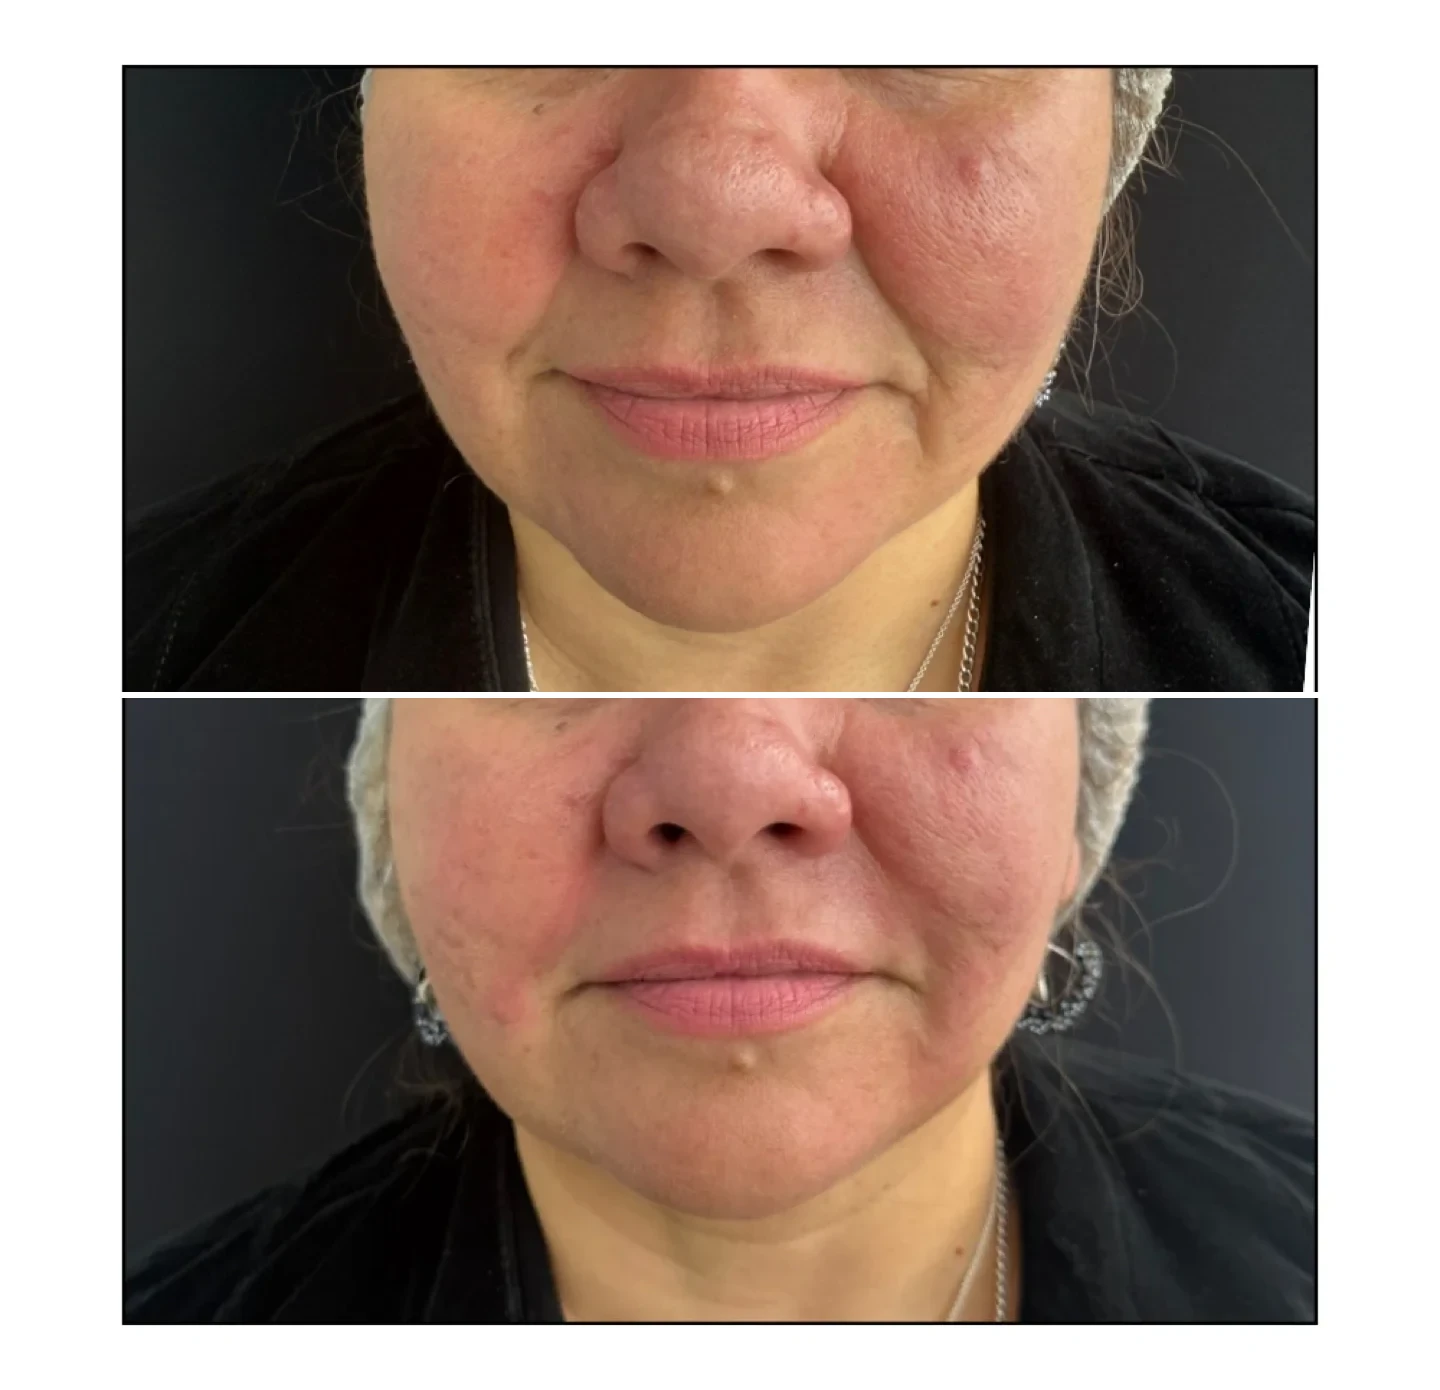
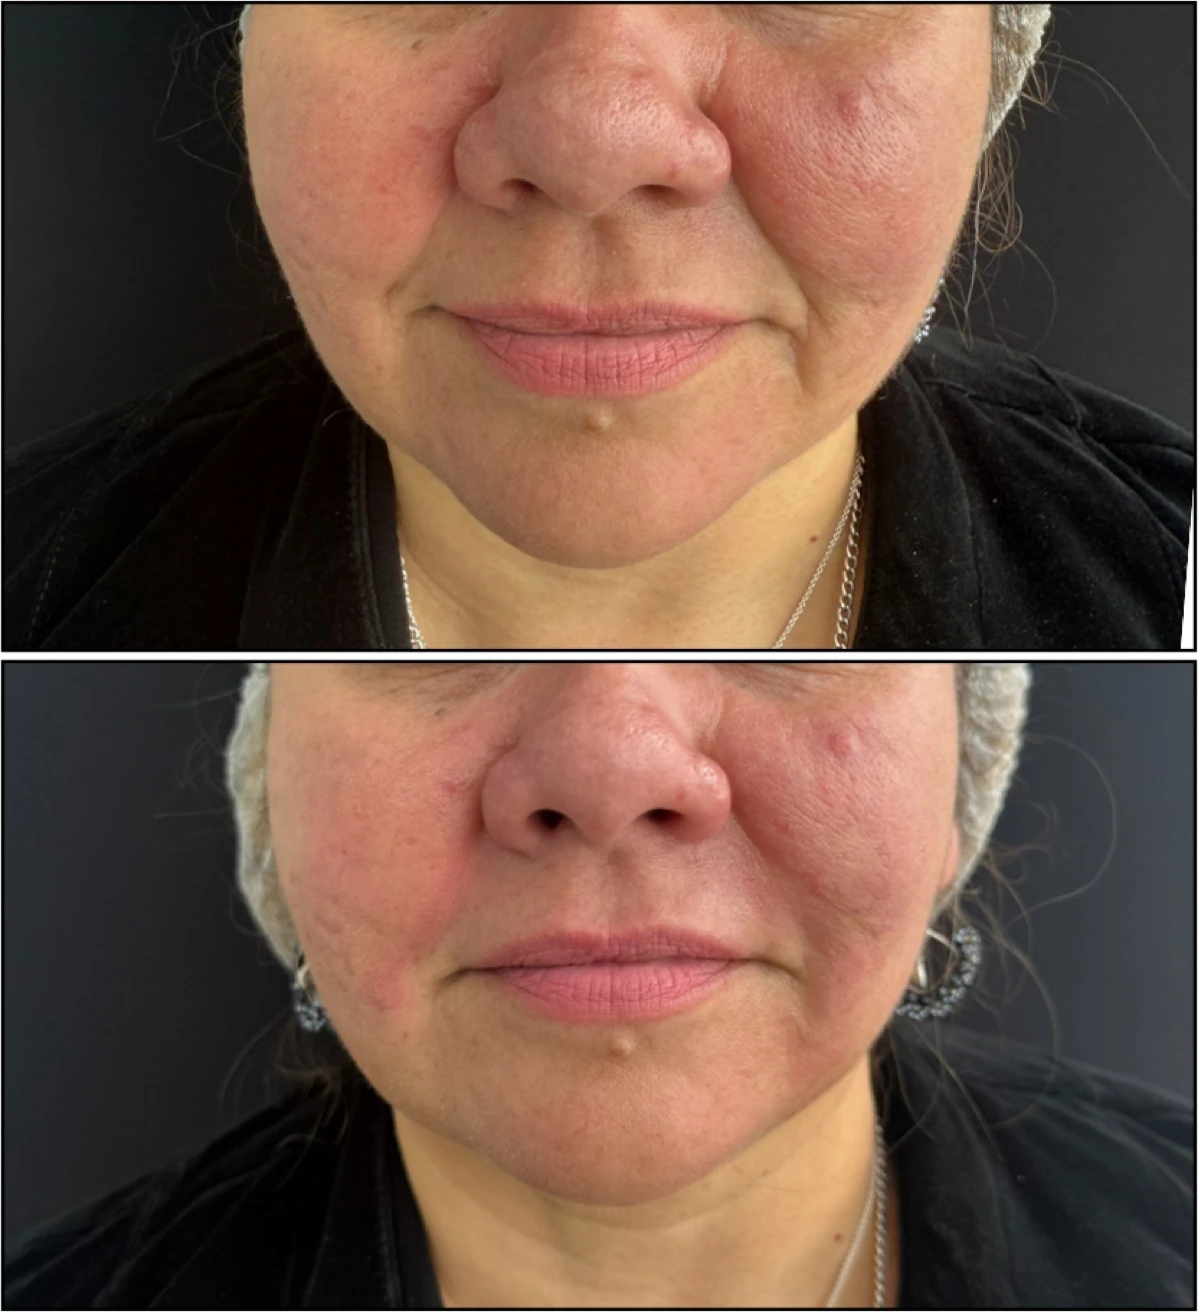
Usar las fotos originales tal cual, no una versión recompuesta
Reemplaza las 6 imágenes combinadas (generadas con PIL asumiendo
apilado) por los archivos originales que Rodolfo subió, cada uno con
su layout real (apilado o lado a lado según venía). Mismo criterio
aplicado también a la caja del inicio, que ahora usa directamente los
archivos -combo.webp en vez de armar el apilado a mano con JS.

diff --git a/js/hero-before-after.js b/js/hero-before-after.js
@@ -5,25 +5,26 @@
  * es solo variedad visual, NO afirma que la foto corresponda a la
  * persona del testimonio que se ve en pantalla en ese momento.
  *
- * A pedido de Rodolfo (2026-09-22): sin slider de arrastre, antes
- * arriba y después abajo (igual que vienen las fotos originales, no
- * lado a lado), y con un tamaño fijo para la caja completa — si no,
- * la sección salta de alto en cada rotación porque las 6 parejas
- * tienen proporciones distintas (mala UX). El encuadre fijo se logra
- * con CSS (object-fit: cover vía la clase .hero-ba-half en
- * costaserena-theme.css), no recortando el archivo — mismo criterio
- * que el resto del sitio. Cada mitad abre el visor (Magnific Popup,
- * vía la clase .zoom-gallery del contenedor padre en index.html) al
- * hacer click, mostrando la foto completa sin ese recorte.
+ * A pedido de Rodolfo (2026-09-22): sin slider de arrastre, usando la
+ * foto tal cual la subió (archivo `-combo.webp`, antes+después ya
+ * juntos en el mismo archivo original — apilados o lado a lado según
+ * venía cada una, sin volver a diagramarla), y con un tamaño fijo
+ * para la caja completa — si no, la sección salta de alto en cada
+ * rotación porque las 6 parejas tienen proporciones distintas (mala
+ * UX). El encuadre fijo se logra con CSS (object-fit: cover vía la
+ * clase .hero-ba-combo en costaserena-theme.css), no recortando el
+ * archivo. El click abre el visor (Magnific Popup, vía la clase
+ * .zoom-gallery del contenedor padre en index.html) mostrando la
+ * foto completa sin ese recorte.
  */
 (function () {
     var PARES = [
-        { antes: "images/real/antes-despues-entrecejo-antes.webp", despues: "images/real/antes-despues-entrecejo-despues.webp", alt: "Antienvejecimiento" },
-        { antes: "images/real/antes-despues-mandibula-antes.webp", despues: "images/real/antes-despues-mandibula-despues.webp", alt: "Ácido Hialurónico" },
-        { antes: "images/real/antes-despues-ojeras-antes.webp", despues: "images/real/antes-despues-ojeras-despues.webp", alt: "Ácido Hialurónico (Ojeras)" },
-        { antes: "images/real/antes-despues-gluteos-antes.webp", despues: "images/real/antes-despues-gluteos-despues.webp", alt: "Alidya (Anticelulítico)" },
-        { antes: "images/real/antes-despues-plasmage-antes.webp", despues: "images/real/antes-despues-plasmage-despues.webp", alt: "Plasmage" },
-        { antes: "images/real/antes-despues-plasmage2-antes.webp", despues: "images/real/antes-despues-plasmage2-despues.webp", alt: "Plasmage" }
+        { src: "images/real/antes-despues-entrecejo-combo.webp", alt: "Antienvejecimiento" },
+        { src: "images/real/antes-despues-mandibula-combo.webp", alt: "Ácido Hialurónico" },
+        { src: "images/real/antes-despues-ojeras-combo.webp", alt: "Ácido Hialurónico (Ojeras)" },
+        { src: "images/real/antes-despues-gluteos-combo.webp", alt: "Alidya (Anticelulítico)" },
+        { src: "images/real/antes-despues-plasmage-combo.webp", alt: "Plasmage" },
+        { src: "images/real/antes-despues-plasmage2-combo.webp", alt: "Plasmage" }
     ];
     var indice = 0;
 
@@ -41,17 +42,14 @@
         var $cont = jQuery("#hero-before-after");
         if (!$cont.length) return;
 
-        Promise.all([preload(par.antes), preload(par.despues)]).then(function () {
+        preload(par.src).then(function () {
             $cont.html(
-                '<div class="hero-ba-stack">' +
-                    '<a href="' + par.antes + '" title="' + par.alt + ' — Antes"><img src="' + par.antes + '" class="hero-ba-half" alt="' + par.alt + ' — Antes"></a>' +
-                    '<a href="' + par.despues + '" title="' + par.alt + ' — Después"><img src="' + par.despues + '" class="hero-ba-half" alt="' + par.alt + ' — Después"></a>' +
-                '</div>'
+                '<a href="' + par.src + '" title="' + par.alt + ' — Antes y Después"><img src="' + par.src + '" class="hero-ba-combo" alt="' + par.alt + ' — Antes y Después"></a>'
             );
             // El contenedor #hero-before-after ya tiene la clase .zoom-gallery
             // (inicializada una sola vez por designesia.js con delegate:'a'),
             // así que no hace falta re-inicializar magnificPopup acá — el
-            // delegate detecta los <a> nuevos que se inyectan en cada rotación.
+            // delegate detecta el <a> nuevo que se inyecta en cada rotación.
         });
     }
 

diff --git a/css/costaserena-theme.css b/css/costaserena-theme.css
@@ -411,44 +411,32 @@ footer .widget h3 {
 }
 
 /* Galería "Antes y Después" (antes-despues.html, 2026-09-22): cada
-   tarjeta muestra UNA sola imagen combinada (antes arriba, después
-   abajo, generada con PIL uniendo los archivos ya existentes tal
-   cual, sin recortar su contenido) — el visor abre esa misma imagen
-   combinada, no divide en dos. Alto fijo por tarjeta (object-fit:
-   cover) para que el grid no quede parejo de ancho pero disparejo de
-   alto entre tratamientos con fotos de proporciones muy distintas. */
+   tarjeta muestra UNA sola imagen combinada, la foto original tal
+   cual la mandó Rodolfo (antes+después ya juntos en el archivo que
+   subió — apilados o lado a lado según venía cada una, sin volver a
+   diagramarla) — el visor abre esa misma imagen, no divide en dos.
+   Alto fijo por tarjeta (object-fit: cover) para que el grid no quede
+   parejo de ancho pero disparejo de alto entre tratamientos. */
 .antes-despues-thumb {
   width: 100%;
   height: 340px;
   object-fit: cover;
   display: block;
 }
-/* antes-despues-plasmage-combo.webp es angosta y muy alta (recorte
-   original de párpado en primer plano) — el centro por defecto cae
-   justo en la costura entre antes/después, mostrando pelo/oreja en
-   vez del ojo. Se ancla al ojo del "después". La foto completa sigue
-   viéndose sin recortar al abrir el visor. */
-img.antes-despues-thumb[src*="antes-despues-plasmage-combo.webp"] {
-  object-position: center 67%;
-}
 .antes-despues-card {
   background: var(--bg-default);
 }
 
 /* Caja "antes y después" del inicio (#hero-before-after, ver
-   js/hero-before-after.js): antes arriba, después abajo — igual que
-   vienen las fotos originales — con alto fijo por mitad para que la
+   js/hero-before-after.js): una sola imagen, la original tal cual la
+   subió Rodolfo (antes+después ya juntos en el archivo, apilados o
+   lado a lado según venía cada foto) — con alto fijo para que la
    sección no salte de tamaño al rotar entre las 6 parejas del sitio
    (proporciones muy distintas entre sí). object-fit: cover recorta
    visualmente vía CSS, no toca el archivo. */
-.hero-ba-stack {
-  display: flex;
-  flex-direction: column;
-  gap: 4px;
-}
-.hero-ba-half {
+.hero-ba-combo {
   width: 100%;
-  height: 220px;
+  height: 460px;
   object-fit: cover;
   display: block;
 }

diff --git a/PROYECTO.md b/PROYECTO.md
@@ -2019,4 +2019,40 @@ mismo alto; el click abre la imagen completa sin dividir ("1 of 6",
 título correcto); "Ver tratamiento" navega normal, ya no lo agarra el
 visor.
 
+Commit `a418a5f`.
+
+## 2026-09-22 — Corrección: usar la foto original, no una recompuesta
+
+Rodolfo mostró un ejemplo puntual (Plasmage) donde la imagen original
+que mandó viene **lado a lado**, no apilada — y señaló que en vez de
+recomponer las fotos con PIL, debía usar el archivo tal cual él lo
+subió. Las 6 fotos originales seguían disponibles en `Recursos/`
+(gitignored, pero no borradas de la sesión), así que se reprocesaron
+desde ahí:
+
+- `IMG_2930.JPG.jpeg` (Plasmage, par 1): confirmado lado a lado, no
+  apilado — mi composite anterior asumía mal el layout.
+- Las otras 5 (`IMG_2943.PNG` glúteos, `IMG_2933` mandíbula, `IMG_2941`
+  entrecejo, `IMG_2932` Plasmage par 2, `IMG_2927` ojeras) sí venían
+  apiladas — coincide con lo que ya se había generado, pero igual se
+  reemplazaron por el archivo original real (recortando solo el
+  borde blanco/crema exterior con detección automática por
+  brillo de fila/columna, sin tocar el contenido) en vez de mi
+  versión recompuesta.
+- Se eliminó el override de CSS `object-position: center 67%` que
+  había puesto para la versión vertical vieja de Plasmage — ya no
+  aplica con el archivo original (formato lado a lado, centrado por
+  defecto se ve bien).
+- **Mismo criterio aplicado también a la caja del inicio**
+  (`#hero-before-after`), no solo a la galería: `js/hero-before-after.js`
+  se simplificó para usar directamente los 6 archivos `-combo.webp`
+  (una sola imagen por rotación, sin armar el apilado a mano con JS) —
+  más simple y automáticamente respeta el layout real de cada foto
+  (apilada o lado a lado). CSS: `.hero-ba-stack`/`.hero-ba-half` se
+  reemplazó por `.hero-ba-combo` (una sola clase, alto fijo 460px).
+
+Verificado con Claude-in-Chrome: las 6 fotos del inicio miden 538px de
+alto sin variar (probado forzando las 6 una por una), y la de Plasmage
+(lado a lado) se ve completa y bien encuadrada en esa caja.
+
 Pendiente: commit + push.
